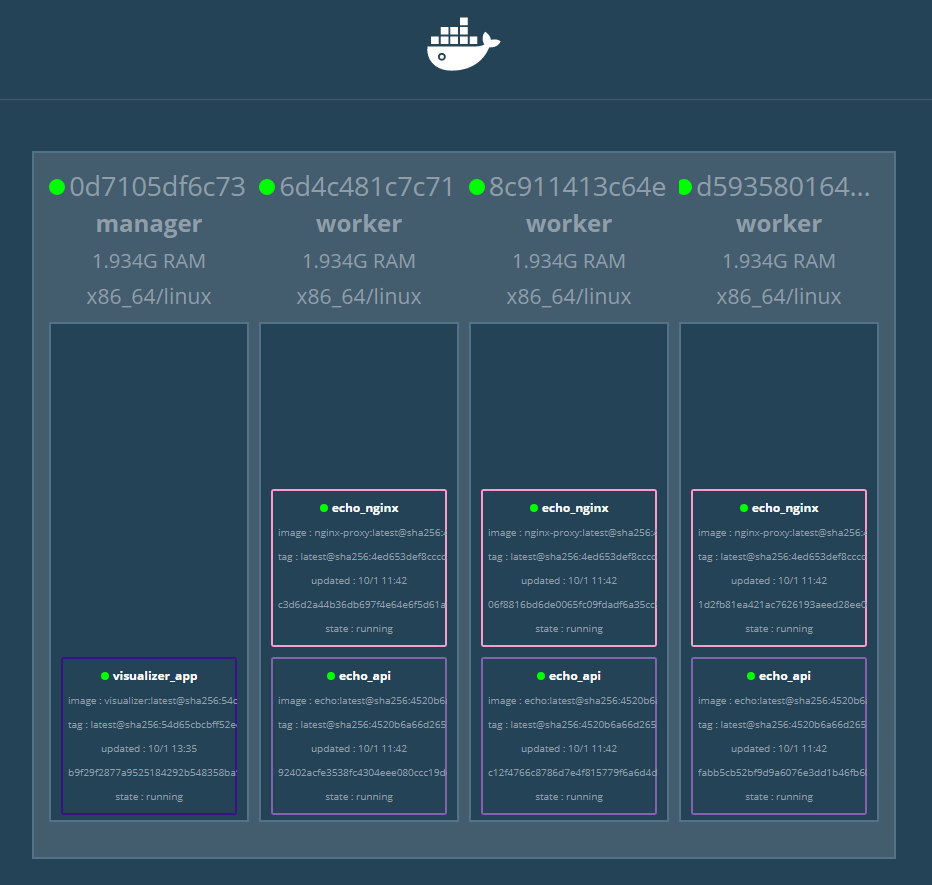
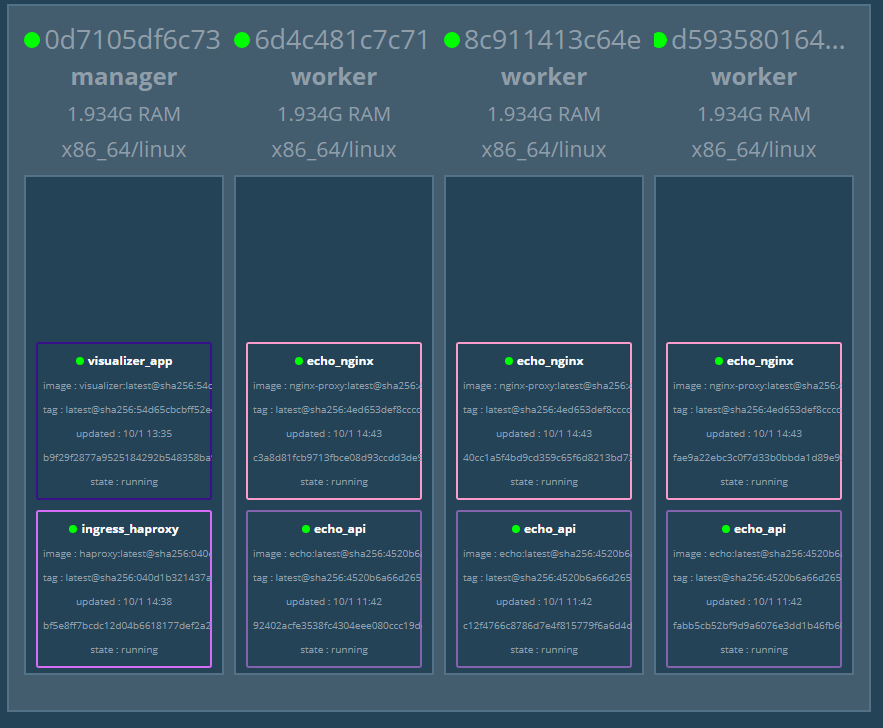
200110

diff --git a/cloud_computing/class/Docker/200110_4_service.md b/cloud_computing/class/Docker/200110_4_service.md
@@ -64,3 +64,38 @@ networks:
 ```
 
 ![Docker](/cloud_computing/img/docker_visual.PNG)
+
+## Haproxy 추가
+```yml
+version: "3"
+services:
+    haproxy:
+        image: dockercloud/haproxy
+        networks:
+            - ch03
+        volumes:
+            - /var/run/docker.sock:/var/run/docker.sock
+        deploy:
+            mode: global
+            placement:
+                constraints: [node.role == manager]
+        ports:
+            - 80:80
+            - 1936:1936 # for stats page (basic auth. stats:stats)
+networks:
+    ch03:
+        external: true
+```
+
+```shell
+# 업데이트
+docker stack deploy -c /stack/my-webapi.yml echo
+
+# Haproxy 서비스 실행
+docker stack deploy -c /stack/my-ingress.yml ingress
+
+# localhost:8000에서 확인
+```
+
+## 실전 애플리케이션 배포(p.128~)
+![application](/cloud_computing/img/application.jpg)
